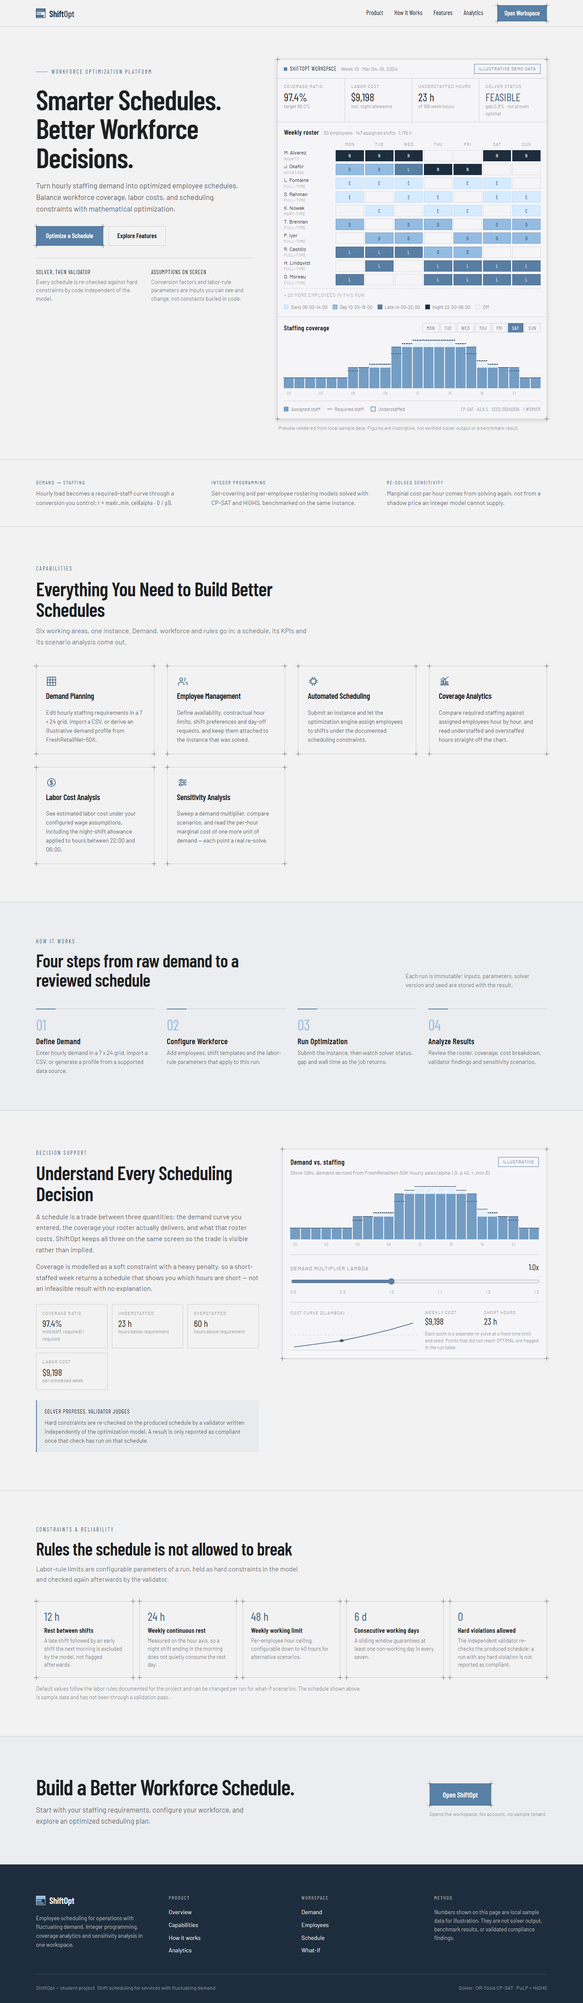
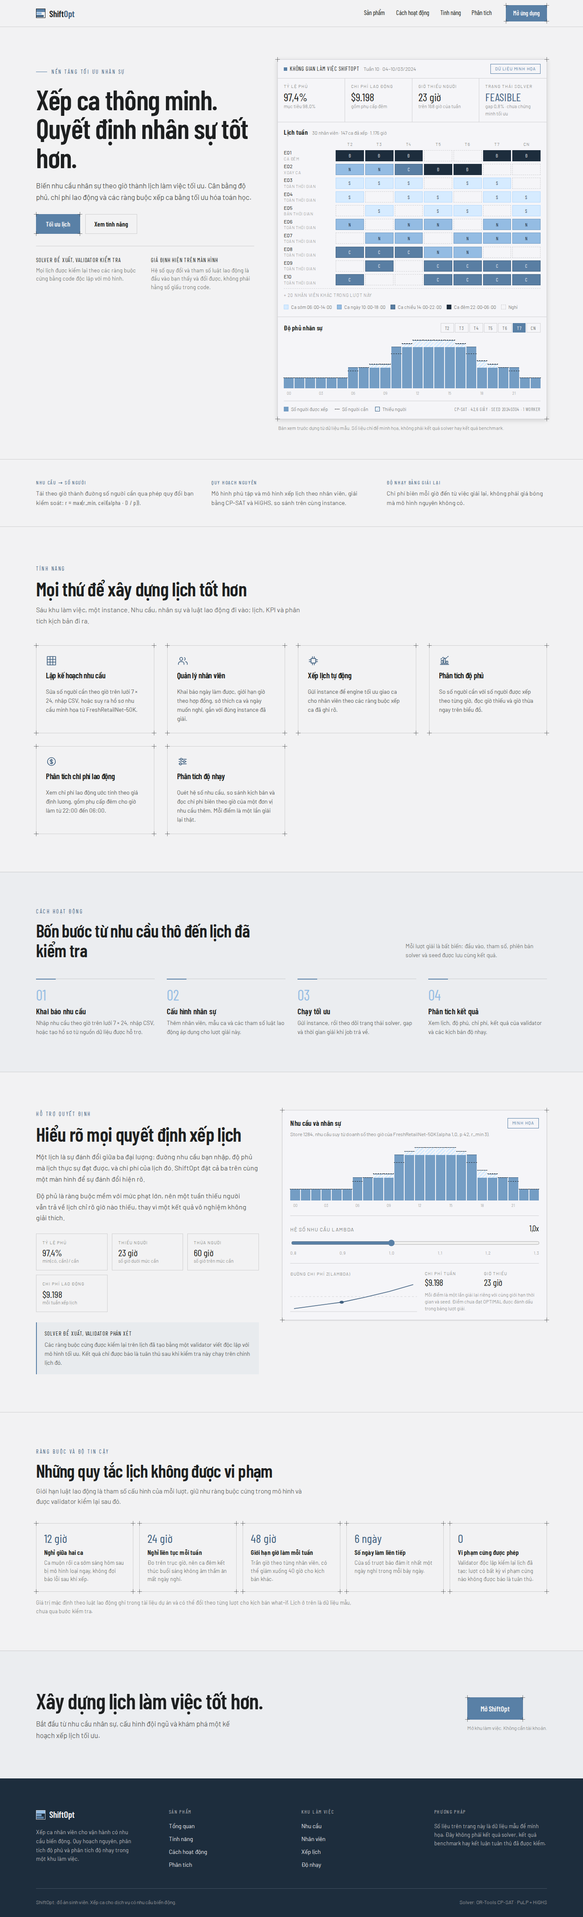
docs: slide content, data description and refreshed acceptance screenshots
Add 10-slide content, a description of the FreshRetailNet data, and replace
the acceptance screenshots with Vietnamese-UI captures on demo data, plus a
manual-edit violation screenshot. Update acceptance and demo notes to match.

diff --git a/docs/slides.md b/docs/slides.md
@@ -1,0 +1,183 @@
+# Nội dung 10 slide bảo vệ ShiftOpt
+
+Cập nhật: 2026-11-07. Số liệu lấy từ [báo cáo.md](báo%20cáo.md), [benchmarks.md](benchmarks.md), [acceptance.md](acceptance.md) và [đặc tả.md](đặc%20tả.md). Không thêm số nào ngoài các file đó. Kịch bản thao tác demo chi tiết ở [demo.md](demo.md).
+
+Mỗi slide có ba phần:
+- **Trên slide:** chữ đặt lên slide. Giữ ngắn, mỗi slide tối đa 5–6 ý.
+- **Hình:** hình hoặc bảng nên đặt.
+- **Lời nói:** ý chính người trình bày nói, khoảng 1–2 phút mỗi slide.
+
+Tổng thời lượng dự kiến khoảng 15 phút, chưa tính demo trực tiếp và hỏi đáp.
+
+---
+
+## Slide 1. Giới thiệu
+
+**Trên slide:**
+- **ShiftOpt: xếp ca nhân viên cho dịch vụ có nhu cầu biến động**
+- Quy hoạch nguyên tuyến tính · OR-Tools CP-SAT · PuLP + HiGHS · Web app
+- Môn: Khoa học dịch vụ
+- Nhóm: *[tên thành viên]*
+- Giảng viên hướng dẫn: *[tên]*
+- Ngày bảo vệ: *[ngày]*
+
+**Hình:** logo ShiftOpt hoặc ảnh trang chủ (`docs/acceptance/home.png`).
+
+**Lời nói:** Giới thiệu nhóm và đề tài trong một câu: cửa hàng hoặc tổng đài mở 24/7 cần biết mỗi giờ cần bao nhiêu người, rồi xếp ca cho từng nhân viên sao cho đủ người, chi phí thấp và đúng luật lao động.
+
+---
+
+## Slide 2. Bài toán và mục tiêu
+
+**Trên slide:**
+- Nhu cầu thay đổi theo từng giờ, từng ngày trong tuần
+- Ca dài 8 giờ, nghỉ ≥ 12 giờ giữa hai ca, số ngày làm liên tiếp có giới hạn
+- **Đầu vào:** nhu cầu 7 × 24 giờ, danh sách nhân viên, mẫu ca, tham số luật
+- **Đầu ra:** lịch xếp ca, KPI (tỷ lệ phủ, giờ thiếu/thừa, chi phí), danh sách vi phạm, phân tích độ nhạy
+- **Mục tiêu:** đủ người → chi phí thấp → công bằng → tôn trọng mong muốn nghỉ
+
+**Hình:** sơ đồ một dòng: nhu cầu theo giờ → số người cần → lịch tối ưu → kiểm tra → độ nhạy.
+
+**Lời nói:** Đề bài yêu cầu bốn việc: mô hình hóa bằng quy hoạch nguyên, giải bằng OR-Tools hoặc PuLP, phân tích độ nhạy khi nhu cầu đổi, và làm giao diện nhập nhu cầu, xem lịch. Xếp tay khó vì có 168 giờ mỗi tuần, hàng chục nhân viên, và các ràng buộc luật nối giữa các ngày.
+
+---
+
+## Slide 3. Dữ liệu và quy đổi nhu cầu
+
+**Trên slide:**
+- Nguồn: **FreshRetailNet-50K** (CC BY 4.0): doanh số theo giờ của kho thương mại điện tử, 90 ngày train + 7 ngày eval
+- **Không phải dữ liệu nhân sự.** Số người suy ra từ giả định của nhóm
+- Giờ hết hàng: thay bằng nhu cầu ẩn (trung bình cùng giờ, cùng thứ, ngày không hết hàng)
+- Quy đổi: **r = max(sàn, ⌈α · D / p⌉)**, với α = 1, p = 4, sàn = 1
+- Giờ đêm 22h–06h dùng mức tối thiểu cố định, không suy từ doanh số
+- Chế độ tổng đài: lưu lượng giả lập có seed, quy đổi bằng Erlang A/C
+
+**Hình:** lưới 7 × 24 số người cần của store 18 trong `docs/acceptance/demand.png`, giờ đỉnh cần 8 người, kèm nhãn "doanh số chuẩn hóa, không phải nhu cầu nhân sự".
+
+**Lời nói:** Nhấn mạnh tính trung thực về dữ liệu. Doanh số giờ đêm gần bằng 0 vì kho không nhập hàng ban đêm, nên giờ đêm dùng mức tối thiểu cố định. Store 18 có 90.159 ô hết hàng đã được thay bằng nhu cầu ẩn. α và p là giả định, luôn hiện trên giao diện và có thể quét độ nhạy (slide 8).
+
+---
+
+## Slide 4. Mô hình toán
+
+**Trên slide:**
+- Biến: **x[e, d, s] ∈ {0, 1}**: nhân viên e làm ca s ngày d; **u_h ≥ 0**: số người thiếu ở giờ h
+- Phủ nhu cầu (mềm): số người có mặt ở giờ h cộng u_h ≥ r_h, nên mô hình luôn có nghiệm
+- Ràng buộc cứng: tối đa 1 ca/ngày; ≤ 8 giờ/ngày, ≤ 48 giờ/tuần; nghỉ ≥ 12 giờ; nghỉ 24 giờ liên tục mỗi tuần; ≤ 6 ngày liên tiếp; nghỉ giữa ca làm mất 1 giờ phủ
+- Mục tiêu **lexicographic 4 tầng**: (1) ít giờ thiếu nhất → (2) chi phí lương + phụ cấp đêm 30% → (3) chia ca đêm đều → (4) tôn trọng ngày nghỉ mong muốn
+- Hai tầng mô hình: **CP-SAT theo nhân viên** (lõi sản phẩm) và **phủ tập Dantzig** bằng PuLP + HiGHS (đối chứng, dual LP)
+
+**Hình:** công thức gọn của hàm mục tiêu và ràng buộc phủ; sơ đồ 4 tầng xếp chồng.
+
+**Lời nói:** Giải thích vì sao chọn lexicographic thay cho trọng số phạt: chọn một số M lớn tùy tiện dễ làm sai thứ tự ưu tiên. Giải theo tầng bảo đảm thiếu người luôn được ưu tiên hơn chi phí, và mỗi tầng không làm hỏng kết quả của tầng trước. Coverage để mềm nên khi thiếu nhân lực vẫn có lịch, kèm chỉ rõ giờ nào thiếu.
+
+---
+
+## Slide 5. Luật lao động và kiểm tra độc lập
+
+**Trên slide:**
+
+| Điều (BLLĐ 2019) | Nội dung | Cài đặt |
+|---|---|---|
+| Đ.105 | ≤ 8 giờ/ngày, ≤ 48 giờ/tuần | Ràng buộc cứng |
+| Đ.106, Đ.98 | Giờ đêm 22h–06h, phụ cấp ≥ 30% | Nằm trong chi phí ca |
+| Đ.109 | Nghỉ giữa ca 30 phút (đêm 45 phút) | Mất 1 giờ phủ |
+| Đ.110 | Nghỉ ≥ 12 giờ giữa hai ca | Ràng buộc cứng |
+| Đ.111 | Nghỉ ≥ 24 giờ liên tục mỗi tuần | Ràng buộc cứng, tính trên trục giờ |
+
+- **Solver đề xuất, validator phán xét:** mọi lịch được một chương trình độc lập kiểm lại, kể cả khi solver báo OPTIMAL
+- Ví dụ bị chặn: ca 14h–22h rồi 06h–14h hôm sau (chỉ nghỉ 8 giờ)
+
+**Hình:** khung "Tuân thủ" trong `docs/acceptance/schedule_violation.png` (sửa tay gây vi phạm Đ.110).
+
+**Lời nói:** Nêu "bẫy" Đ.111: ngày nghỉ trên lịch chưa chắc là 24 giờ nghỉ liên tục khi có ca qua đêm, nên validator tính khoảng nghỉ trên trục giờ. Validator không dùng chung code với mô hình, nên một lỗi trong mô hình không thể tự che giấu. Lưu ý trung thực: nội dung các điều luật đang dựa trên nguồn thứ cấp, chưa đối chiếu nguyên văn văn bản 45/2019/QH14.
+
+---
+
+## Slide 6. Kiến trúc hệ thống
+
+**Trên slide:**
+- **Engine** (Python thuần): mô hình, solver, validator, KPI, độ nhạy
+- **Backend** (FastAPI + MySQL 8.4): lưu dữ liệu; giải trong tiến trình con; trả `job_id` để giao diện hỏi lại
+- **Frontend** (React 19 + TypeScript): giao diện tiếng Việt, biểu đồ tự vẽ
+- Chạy toàn bộ bằng **Docker Compose**; CI kiểm lint, kiểu, test, migration
+- **Tái lập:** mỗi lượt giải lưu đầu vào, seed, số worker, phiên bản solver; cùng seed và 1 worker cho cùng kết quả
+
+**Hình:** sơ đồ khối: Trình duyệt → Frontend → Backend API → (MySQL, tiến trình giải → Engine).
+
+**Lời nói:** Solver có thể chạy hàng chục giây, nên không chạy trong luồng xử lý request. API trả mã job ngay, giao diện hỏi lại cho tới khi xong. Lượt giải là bất biến: sửa tay tạo lượt mới và chạy lại validator, lịch gốc giữ nguyên.
+
+---
+
+## Slide 7. Giao diện và demo
+
+**Trên slide:**
+1. **Nhu cầu:** lưới 7 × 24, nhập CSV, tạo từ FreshRetailNet hoặc tổng đài
+2. **Nhân viên và mẫu ca:** giờ tối đa riêng, ngày không làm được, ngày muốn nghỉ
+3. **Tối ưu:** trạng thái solver, gap, thời gian giải
+4. **Kết quả:** lịch nhân viên × ngày, biểu đồ phủ nhu cầu (giờ thiếu có sọc chéo), chi phí, cảnh báo luật, xuất CSV
+5. **What-if:** thanh trượt λ, heatmap chi phí biên theo giờ, so sánh kịch bản
+
+**Hình:** ghép 2–3 ảnh `docs/acceptance/demand.png`, `schedule_run.png`, `what_if.png` (giao diện tiếng Việt, chụp 2026-11-07). Ảnh chụp cả trang, nên cắt lấy phần cần dùng.
+
+**Lời nói:** Chuyển sang demo trực tiếp theo [demo.md](demo.md) phần C, hoặc dùng ảnh nếu máy chiếu có sự cố. Điểm cần cho thấy: thiếu và thừa người phân biệt được bằng hình dạng chứ không chỉ bằng màu; trạng thái FEASIBLE luôn kèm gap.
+
+---
+
+## Slide 8. Kết quả thực nghiệm
+
+**Trên slide:**
+
+| Thực nghiệm | Kết quả |
+|---|---|
+| Lịch tuần, 20/30/40 nhân viên, 3 seed | 18/18 lần **OPTIMAL**, gap 0, phủ 100%, 0 vi phạm; lâu nhất 31,5 s (1 worker) |
+| Store 18, 30 nhân viên | 3/3 **OPTIMAL**, phủ 100%, 0 vi phạm, 12–20 s |
+| Store 18, chỉ 8 nhân viên (thiếu người) | **FEASIBLE**, phủ 70,3%, thiếu 139 giờ-người, gap 100%, 0 vi phạm |
+| Benchmark Curtois & Qu (8 worker, 120 s) | Instance1–3 đạt đúng tối ưu công bố và chứng minh được; Instance4 đạt nhưng chưa chứng minh; Instance5 cách 5 đơn vị |
+| CP-SAT với HiGHS (mô hình tổng hợp) | Cùng OPTIMAL, cùng objective trên 3 instance, đều dưới 0,1 s |
+
+- Engine: 194 test, coverage 98,21%; backend: 102 test trên MySQL thật
+
+**Hình:** bảng trên; có thể thêm biểu đồ cột thời gian giải theo số nhân viên.
+
+**Lời nói:** Đọc kết quả trung thực. Kịch bản 30 nhân viên đang dư sức chứa (cần 468 giờ-người, có 1.440), nên phủ 100% chưa chứng minh khả năng xử lý khi thiếu người. Ở kịch bản 8 nhân viên, solver không chứng minh được tối ưu trong 60 giây, và hệ thống ghi đúng là FEASIBLE thay vì tự nhận tối ưu. Mọi kết luận chỉ áp dụng cho các instance đã đo.
+
+---
+
+## Slide 9. Phân tích độ nhạy
+
+**Trên slide:**
+- **Quét nhu cầu λ ∈ [0,8; 1,3]:** giải lại với nhu cầu ⌈λ · r⌉, vẽ đường chi phí z(λ) và giờ thiếu
+- **Chi phí biên theo giờ:** z(r + 1 người ở giờ t) − z(r), bằng **168 lần giải lại**, hiển thị thành heatmap 7 × 24
+- **Dual của bài toán nới lỏng LP:** chỉ dùng để so sánh, luôn gắn nhãn **"xấp xỉ"**
+- **Quét giả định quy đổi** α, p, sàn: thấy lịch thay đổi khi giả định thay đổi
+- Điểm giải lại không OPTIMAL được đánh dấu "chưa chứng minh"
+
+**Hình:** đường cong z(λ), bảng quét p và heatmap chi phí biên trong `docs/acceptance/what_if.png` (store 18, 30 nhân viên, mọi điểm OPTIMAL). Quét p trên ảnh: p = 3, 4, 5 cho chi phí tuần 115.200, 88.920, 71.660, đều 0 giờ thiếu. Các số này chỉ là ảnh chụp một lần chạy, chưa được đưa vào `benchmarks.md`.
+
+**Lời nói:** Mô hình nguyên không có "giá bóng" (shadow price) hợp lệ, nên nhóm tính chi phí biên bằng cách giải lại thật. Dual LP chỉ dùng để thấy khoảng cách với bài toán nguyên, và luôn ghi rõ là xấp xỉ. Ví dụ kiểm tay: 3 ca, nhu cầu 1 người mỗi giờ, chi phí biên ở giờ 3 bằng 100 × 980, khớp với tính tay.
+
+---
+
+## Slide 10. Kết luận, hạn chế và hướng phát triển
+
+**Trên slide:**
+- **Đạt được:** mô hình quy hoạch nguyên đủ ràng buộc luật lao động; giải tối ưu 20–40 nhân viên dưới 32 s; validator độc lập; độ nhạy bằng giải lại; web app chạy bằng Docker
+- **Hạn chế:**
+  - Một store, 3 seed; dữ liệu là doanh số, không phải nhu cầu nhân sự
+  - α, p và nội dung điều luật cần xác nhận thêm
+  - Khi thiếu người, chưa chứng minh được tối ưu trong 60 giây
+- **Hướng phát triển:** dự báo nhu cầu, tái lập lịch khi có người nghỉ, nhiều kỹ năng, nhiều cửa hàng, mô hình ngẫu nhiên
+- **Cảm ơn thầy cô và các bạn đã lắng nghe. Mời đặt câu hỏi.**
+
+**Hình:** ảnh trang chủ hoặc ảnh lịch kết quả làm nền mờ.
+
+**Lời nói:** Tóm lại ba điểm khác biệt: solver đề xuất, validator phán xét; độ nhạy tính bằng giải lại thật; mọi giả định đều hiện trên giao diện. Sau đó mời hỏi đáp; bảng câu hỏi thường gặp chuẩn bị sẵn ở [demo.md](demo.md) phần D.
+
+---
+
+## Việc cần làm trước buổi bảo vệ
+
+- Điền tên thành viên, giảng viên, ngày bảo vệ (slide 1).
+- Cắt các ảnh trong `docs/acceptance/` (chụp cả trang ngày 2026-11-07) lấy phần cần cho slide 3, 5, 7, 9.
+- Nếu nhóm đổi α, p hoặc kịch bản cơ sở (đặc tả D7–D9, D13), cập nhật số ở slide 3 và 8.

diff --git a/docs/mô tả dữ liệu.md b/docs/mô tả dữ liệu.md
@@ -1,0 +1,90 @@
+# Mô tả dữ liệu
+
+Cập nhật: 2026-11-07. Các con số lấy từ `backend/` chạy trên file đã tải về; cách tái chạy ở mục 6.
+
+## 1. Nguồn
+
+**FreshRetailNet-50K** (`Dingdong-Inc/FreshRetailNet-50K` trên Hugging Face, giấy phép CC BY 4.0, arXiv:2505.16319). Đây là doanh số sản phẩm theo giờ của kho tiền phương thương mại điện tử, đã chuẩn hóa.
+
+**Dữ liệu này không phải nhu cầu nhân sự và không phải dữ liệu của cửa hàng vật lý 24/7.** Số người cần được suy ra từ giả định của nhóm (mục 5).
+
+Số liệu quy mô: 898 store (thực chất là kho tiền phương) ở 18 thành phố, khoảng 863–865 SKU. Số SKU ghi 865 trong dataset card và 863 trong arXiv; khi trích dẫn, ghi "~863–865".
+
+## 2. Hai file dùng trong dự án
+
+Đặt trong `data/raw/freshretailnet50k/data/` (đã gitignore). SHA-256 được ghim trong `backend/scripts/download_freshretailnet.py`.
+
+| File | Số dòng | Khoảng ngày (đã kiểm bằng `dt.min()/max()`) | Vai trò |
+|---|---|---|---|
+| `train.parquet` | 4.500.000 | 2024-03-28 → 2024-06-25 (90 ngày) | Nguồn nhu cầu (tải lượng) của ShiftOpt |
+| `eval.parquet` | 350.000 | 2024-06-26 → 2024-07-02 (7 ngày) | Tập đánh giá, chưa dùng |
+
+Mỗi dòng là một (store, sản phẩm, ngày). 4.500.000 dòng tương đương 50.000 chuỗi × 90 ngày.
+
+## 3. Cột
+
+| Cột | Kiểu | Ý nghĩa | Dùng trong ShiftOpt |
+|---|---|---|---|
+| `store_id` | int | Mã store (kho) | Có: chọn store |
+| `city_id` | int | Thành phố | Không |
+| `management_group_id`, `first/second/third_category_id`, `product_id` | int | Nhóm và mã sản phẩm | Không |
+| `dt` | string | Ngày, `YYYY-MM-DD` | Có |
+| `sale_amount` | float | Tổng doanh số trong ngày (chuẩn hóa) | Không (dùng `hours_sale`) |
+| `hours_sale` | list[24 float] | Doanh số từng giờ 0..23 | **Có: tải lượng theo giờ** |
+| `hours_stock_status` | list[24 int] | 1 nếu giờ đó hết hàng | **Có: thay giờ hết hàng** |
+| `stock_hour6_22_cnt` | int | Số giờ hết hàng trong khung 6h–22h | Không |
+| `holiday_flag` | int | Ngày lễ (≈ 34% dòng) | Chưa dùng; dự kiến cho kịch bản |
+| `activity_flag` | int | Có hoạt động khuyến mãi (≈ 38% dòng) | Chưa dùng; dự kiến cho kịch bản |
+| `discount` | float | Mức giảm giá, 0 đến 1,088 (trung bình 0,91) | Chưa dùng |
+| `precpt` | float | Lượng mưa (trung bình 3,7; tối đa 42,5) | Chưa dùng; không dùng cho dự báo vì lúc dự báo chưa biết |
+| `avg_temperature`, `avg_humidity`, `avg_wind_level` | float | Thời tiết | Không |
+
+## 4. Dữ liệu store 18 đã xử lý
+
+File `data/processed/demand_store_18.parquet` do `backend/scripts/build_demand_store.py` tạo từ `train.parquet`.
+
+- **168 dòng** = 7 thứ × 24 giờ, cột `weekday` (0 = thứ Hai), `hour`, `load`.
+- Store 18 có 164 sản phẩm và 14.760 dòng gốc trong train.
+- **Thay giờ hết hàng:** 90.159 ô được thay bằng trung bình doanh số của cùng sản phẩm, cùng thứ, cùng giờ trên các ngày không hết hàng. 1.008 ô không có ngày nào đủ điều kiện nên giữ giá trị quan sát.
+- Metadata (đọc bằng `pyarrow`) ghi nguồn (revision Hugging Face `c374e85975c82816c495acfa904cc55ab14a47d3`), phương pháp, và nhãn "không phải nhu cầu nhân sự".
+
+Tải lượng theo giờ (một số thứ và giờ, đơn vị doanh số chuẩn hóa):
+
+```
+hour     0    3    6    8    9    12   15   18   21   23
+Mon    2.5  0.9  9.3 19.2 19.1 13.6 15.3  9.5  4.4  2.2
+Tue    3.2  1.2 11.2 21.0 20.1 13.5 14.7 10.0  5.3  2.5
+Sat    3.1  0.5 10.5 23.3 26.5 11.5 13.4  7.6  3.6  2.2
+Sun    2.7  0.5  9.1 24.2 28.3 12.8 15.8  8.6  4.6  1.6
+```
+
+Tổng tải một tuần: 1.552,7. Giờ đỉnh: 28,3, rơi vào 9h Chủ nhật. Mẫu hình: đỉnh buổi sáng 8h–10h, thấp nhất vào 2h–4h, cuối tuần cao hơn các ngày trong tuần.
+
+## 5. Quy đổi thành số nhân viên
+
+`r[d,h] = max(sàn, ceil(alpha · D[d,h] / p))`, trong đó:
+
+- `alpha = 1,0` và `p = 4,0` là **giả định của nhóm** (đặc tả D7–D8), không phải hằng số lấy từ dữ liệu. Với `p = 1` giờ đỉnh cần 29 người, quá lớn so với quy mô demo.
+- Sàn ban ngày `min_staff = 1`; sàn ban đêm `night_min_staff = 1`.
+- Giờ 22h–06h đặt `D = 0` trước khi quy đổi (`zero_night_load`), nên `r` giờ đêm bằng sàn đêm. Lý do: doanh số ban đêm gần bằng 0 vì kho không bổ sung hàng ngoài khung 6h–22h.
+
+Kết quả với store 18, `alpha = 1`, `p = 4`: tổng 468 giờ-người mỗi tuần, đỉnh 8 người.
+
+## 6. Hạn chế
+
+1. **Không phải nhu cầu nhân sự.** Mọi con số người đều phụ thuộc `alpha`, `p` và các sàn; UI và báo cáo phải ghi rõ.
+2. **Chỉ dùng một store** trong các kết quả đã đo (store 18). Kết quả không suy ra cho 897 store còn lại.
+3. **Khuyến mãi không được điều chỉnh.** Bài báo gợi ý hệ số uplift trung bình 1,43; dự án chưa đưa hệ số này vào dữ liệu, chỉ dùng như một kịch bản để thảo luận.
+4. **Split `eval` 7 ngày** được xác nhận bằng `dt.min()/max()`, chưa dùng để đánh giá mô hình nào.
+5. **Giờ hết hàng** được thay bằng ước lượng, nên tải lượng store 18 là một giả định có phương pháp, không phải doanh số thực đã quan sát.
+
+## 7. Tái tạo
+
+Chạy trong `backend/`:
+
+```
+uv run --locked python -m scripts.download_freshretailnet
+uv run --locked python -m scripts.build_demand_store --store-id 18
+```
+
+Lệnh đầu tải hai file (bỏ qua nếu đã đúng SHA-256) và kiểm hash. Lệnh sau tạo `data/processed/demand_store_18.parquet`.

diff --git a/docs/acceptance.md b/docs/acceptance.md
@@ -8,11 +8,11 @@
 | 2 | Phủ nhu cầu | Coverage ≥ 98% ở kịch bản cơ sở | **Đạt có điều kiện** | Kịch bản cơ sở (store 18, 30 nhân viên, D13): coverage 1,0000 ở 3/3 seed ([benchmarks.md](benchmarks.md) mục 4). Kịch bản này dư sức chứa (468 giờ-người nhu cầu, 1440 sức chứa), nên không chứng minh được coverage khi thiếu người. Kịch bản căng (8 nhân viên) cho coverage 0,703, `FEASIBLE`, gap 1,0. Nhóm cần xác nhận D13 là kịch bản cơ sở và chấp nhận giới hạn này. |
 | 3 | Hiệu năng | 20–40 nhân viên, giải ≤ 60 s, gap ≤ 1% | **Đạt** | 18/18 `OPTIMAL`, gap 0, wall tối đa 31,5 s (1 worker) và 25,9 s (8 worker). Lệnh: `run_roster_scale.py --sizes 20 30 40 --seeds 0 1 2 --time-limit 60`. Chỉ 9 instance × 2 cấu hình. |
 | 4 | So sánh solver | CP-SAT và HiGHS trên cùng instance, có bảng | **Sai lệch** | Bảng có trong [benchmarks.md](benchmarks.md) mục 2, cùng mô hình phủ tập có nghỉ ngầm, 3 instance, cả hai `OPTIMAL` cùng objective. Mô hình theo nhân viên không có bản HiGHS (D12). Nhóm cần chấp nhận. |
-| 5 | Độ nhạy | Đường cong `z(λ)`, λ ∈ [0,8; 1,3]; heatmap chi phí biên theo giờ | **Đạt ở engine; Chờ ở UI** | Engine: `test_default_multipliers_cover_the_range`, `test_cost_curve_is_monotone_in_demand_multiplier`, `test_marginal_cost_matches_hand_example`. API: `demand-sweep` và `staffing-sweep` chạy `succeeded` trong `smoke_flow`. UI: chụp `what_if.png` lúc chưa có kết quả; đường cong và heatmap chưa được người duyệt trên trình duyệt. |
+| 5 | Độ nhạy | Đường cong `z(λ)`, λ ∈ [0,8; 1,3]; heatmap chi phí biên theo giờ | **Đạt ở engine; Chờ ở UI** | Engine: `test_default_multipliers_cover_the_range`, `test_cost_curve_is_monotone_in_demand_multiplier`, `test_marginal_cost_matches_hand_example`. API: `demand-sweep` và `staffing-sweep` chạy `succeeded` trong `smoke_flow`. UI: `what_if.png` (chụp tự động 2026-11-07, store 18, 30 nhân viên) có đường cong `z(λ)`, bảng quét `p` ∈ {3, 4, 5} và heatmap chi phí biên, mọi điểm `OPTIMAL`; chưa có người duyệt tay trên trình duyệt. |
 | 6 | Pháp lý | Cặp 14h–22h → 06h–14h bị cấm; 22h–06h rồi nghỉ ≥ 24 giờ không vi phạm Đ.111 | **Đạt** | `test_afternoon_then_morning_breaks_rest_rule` (validator), `test_afternoon_then_next_morning_is_never_rostered` (CP-SAT), `test_overnight_shift_then_full_24_hour_rest_is_allowed`, `test_trap_rest_day_with_overnight_shift_is_reported`. Bằng chứng end-to-end: `smoke_flow` sửa tay gây `rest_between_shifts` và giữ nguyên lịch gốc. Lưu ý: nội dung các điều luật chưa đối chiếu nguyên văn ([đặc tả](đặc%20tả.md) mục 4). |
 | 7 | Tái lập | Cùng instance + seed + `num_workers = 1` → cùng objective | **Đạt** | `engine/tests/test_reproducibility.py`; `backend/tests/unit/test_reproducibility.py`; `solve_runs` đủ cột nguyên tắc 10. |
 | 8 | Coverage engine | ≥ 80% | **Đạt** | `pytest --cov=shiftopt`: 98,21%, 194 test. CI và Makefile chặn dưới 80%. |
-| 9 | UI | Nhập nhu cầu → Optimize → lịch, coverage chart, cảnh báo, chi phí; kéo λ thấy đường cong | **Chờ** | `smoke_flow --base-url http://localhost:3000` in `smoke flow passed` (Compose, 2026-11-05). Ảnh chụp các màn trong [acceptance/](acceptance/): `home`, `demand`, `employees`, `shift_templates`, `schedule`, `schedule_run`, `what_if`. Ảnh `what_if` chụp lúc chưa có kết quả. Chưa có người duyệt tay trên trình duyệt. |
+| 9 | UI | Nhập nhu cầu → Optimize → lịch, coverage chart, cảnh báo, chi phí; kéo λ thấy đường cong | **Chờ** | `smoke_flow --base-url http://localhost:3000` in `smoke flow passed` (Compose, 2026-11-05). Ảnh chụp các màn trong [acceptance/](acceptance/), giao diện tiếng Việt, chụp tự động bằng Playwright ngày 2026-11-07 trên một stack Compose riêng với dữ liệu demo (`demo.md` mục B: 30 nhân viên, 3 ca 0/8/16 h, store 18 với p = 4): `home`, `demand`, `employees`, `shift_templates`, `schedule`, `schedule_run` (lượt 1: `OPTIMAL`, 3,2 s, 8 worker, phủ 100%, 0 vi phạm), `schedule_violation` (lượt 3, sửa tay ca của E01 thứ Tư, validator báo đúng 1 vi phạm Đ.110), `what_if`. Chưa có người duyệt tay trên trình duyệt. |
 
 ## Bằng chứng bổ sung
 

diff --git a/docs/demo.md b/docs/demo.md
@@ -309,7 +309,7 @@ Mỗi bước gồm: **Làm** (thao tác), **Nói** (gợi ý lời trình bày)
 | Dòng Nhân viên không ghi "Tất cả 30 nhân viên" | DB chưa sạch (mục B1). Không demo Optimize trên DB này; dùng ảnh dự phòng |
 | Optimize chạy quá lâu | Đợi hết time limit; kết quả sẽ là FEASIBLE kèm gap. Dùng đó để giải thích nguyên tắc "không tự nhận tối ưu" |
 | Sweep What-if chậm | Nói trong lúc chờ (bước 8); nếu quá lâu, chuyển sang bước 11 và quay lại sau |
-| Mọi thứ hỏng | Mở ảnh trong `docs/acceptance/`: `schedule_run.png` (kết quả lịch), các ảnh trang Nhu cầu, Nhân viên, Mẫu ca, Độ nhạy (ảnh chụp trước khi Việt hóa giao diện) |
+| Mọi thứ hỏng | Mở ảnh trong `docs/acceptance/`: `schedule_run.png` (kết quả lịch), `schedule_violation.png` (cảnh báo Đ.110 sau khi sửa tay), các ảnh trang Nhu cầu, Nhân viên, Mẫu ca, Độ nhạy (giao diện tiếng Việt, chụp 2026-11-07) |
 
 ---
 
@@ -318,5 +318,5 @@ Mỗi bước gồm: **Làm** (thao tác), **Nói** (gợi ý lời trình bày)
 - Toàn bộ phần C chưa được bấm thử trên trình duyệt theo đúng thứ tự này. Nhãn nút lấy từ mã nguồn. Phải chạy thử trước buổi.
 - Kết quả bước 4–5 (OPTIMAL, 12–20 giây) dựa trên lần đo bằng script với cùng dữ liệu, chưa đo qua giao diện.
 - Thời gian bước 8, 9, 10 qua giao diện chưa đo.
-- Ảnh `what_if.png` chụp lúc chưa có kết quả phân tích.
+- Ảnh trong `docs/acceptance/` chụp tự động ngày 2026-11-07, chưa qua duyệt tay. Ảnh `what_if.png` có kết quả quét nhu cầu, quét p và chi phí biên.
 - Nội dung điều luật chưa đối chiếu nguyên văn (`docs/đặc tả.md` mục 4).
